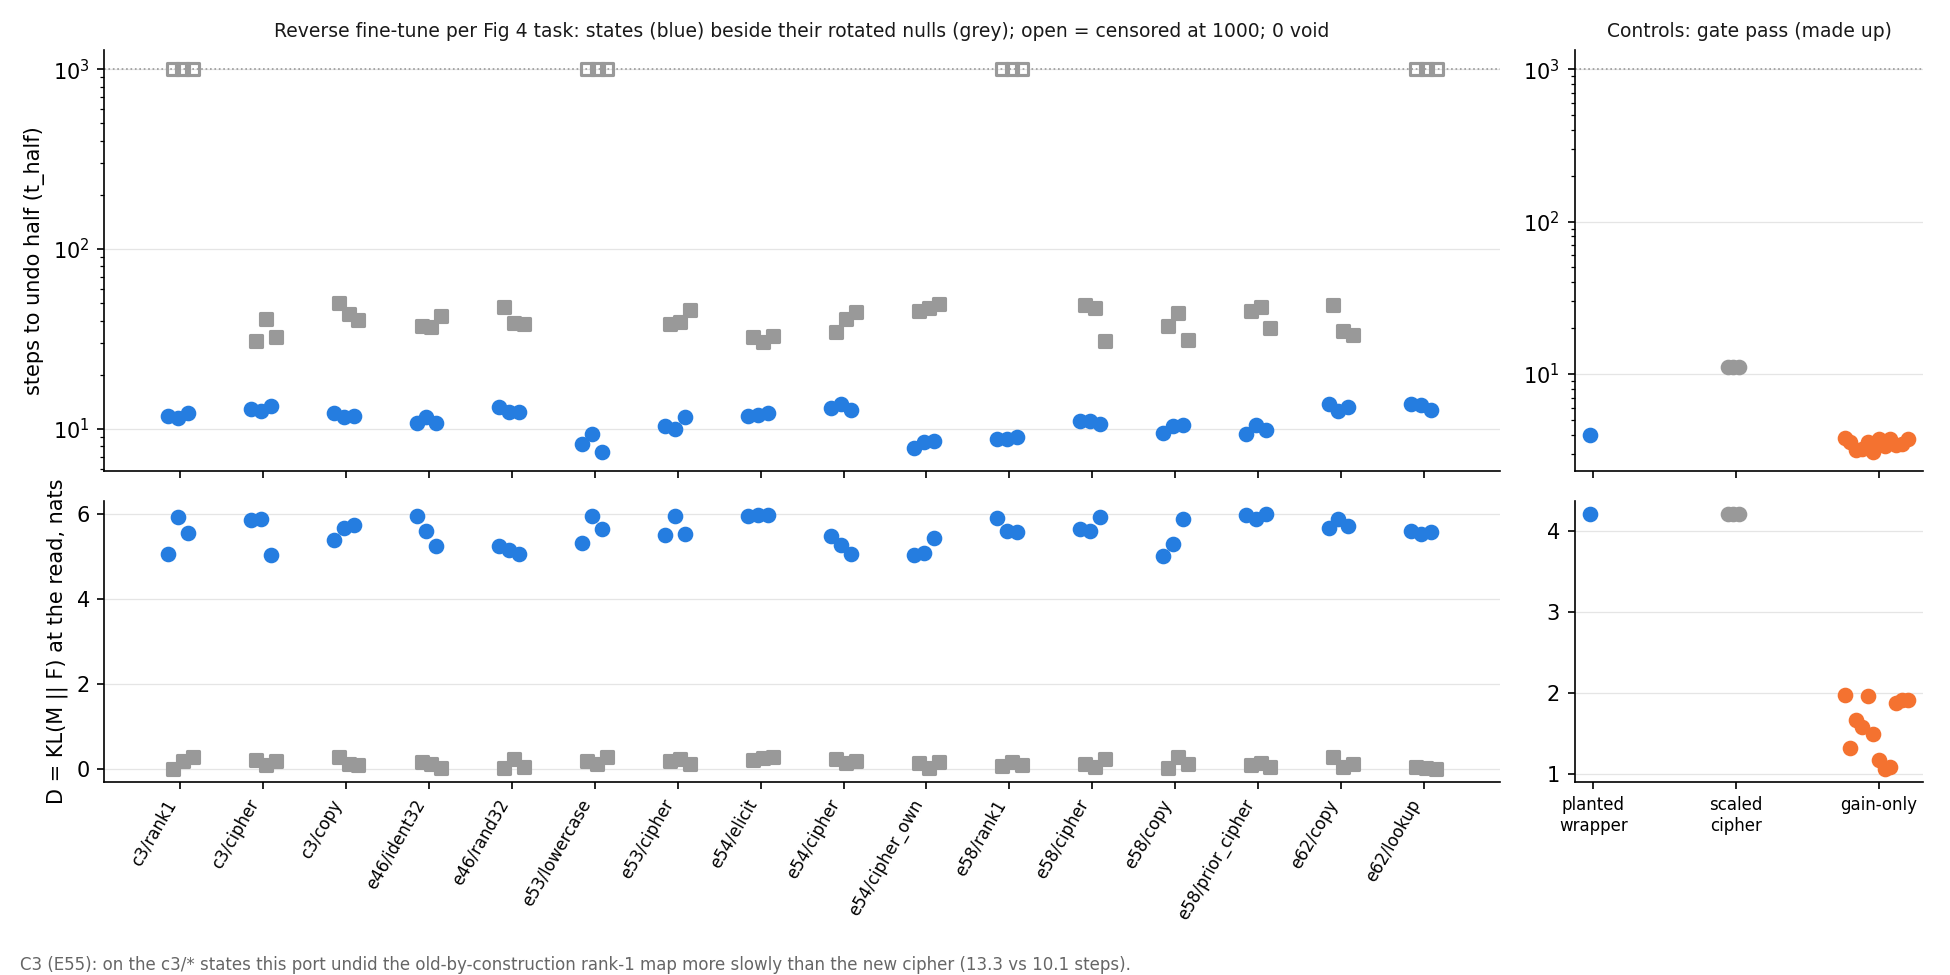
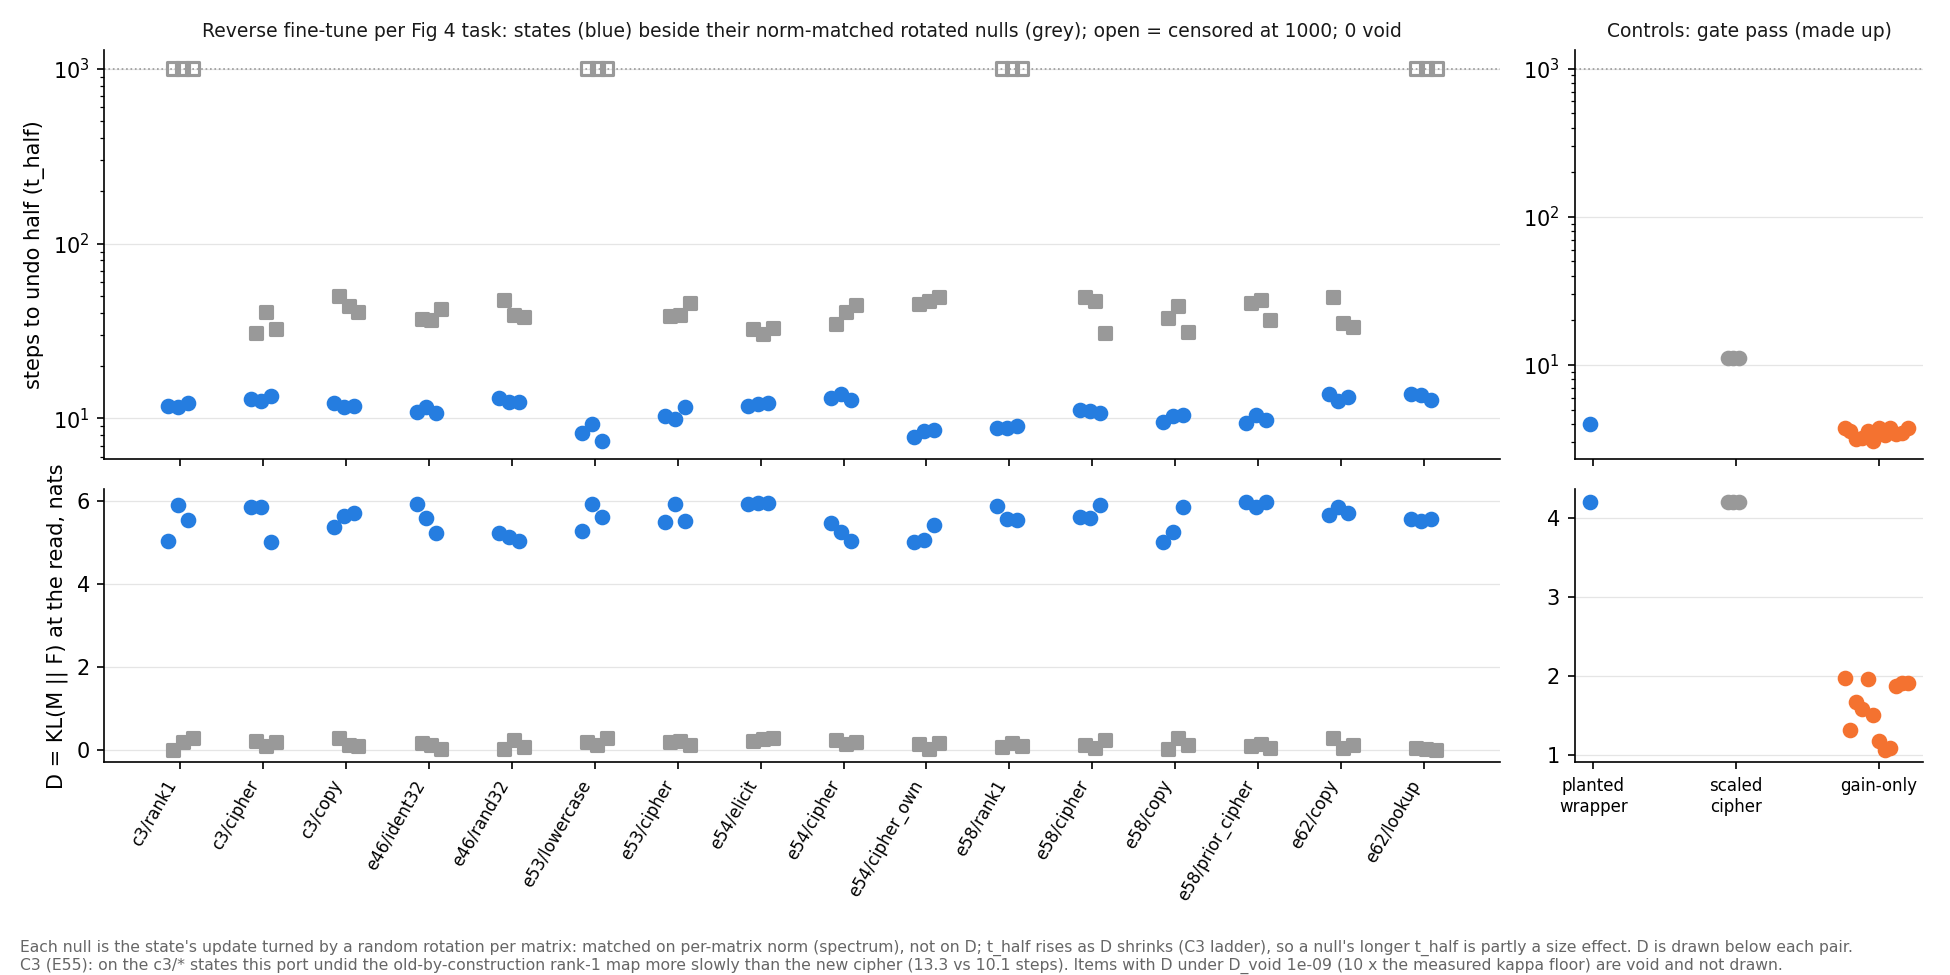
E312: D_void on every item (dated note beside the filed predictions, read by --stage summary), norm-matched null caption, measured kappa floor in the summary (redteam predictions check SHOULD 1-3)

diff --git a/experiments/reverse_ft_fig4/run.py b/experiments/reverse_ft_fig4/run.py
@@ -351,26 +351,43 @@ def stage0(net: ST.Net, c: Config) -> None:
 # ---- summary (no GPU) -----------------------------------------------------------------------------------------------
 
 
+NOTE = RESULTS / "2026-11-25_note_dvoid.md"  # dated note beside the filed predictions (redteam SHOULD 1-3)
+
+
+def void_rule() -> str:
+    """The note's machine line: "every item" (D under D_void voids any item's reading, not only a null's)."""
+    lines = [ln.split(":", 1)[1].strip() for ln in NOTE.read_text().splitlines() if ln.startswith("void_rule:")]
+    if lines != ["every item"]:
+        raise SystemExit(f"STOP: {NOTE.name} has no 'void_rule: every item' line")
+    return lines[0]
+
+
 def stage_summary(c: Config) -> None:
     done = {n: json.loads(item_path(n).read_text()) for n in item_names(c) if item_path(n).is_file()}
-    drop = lambda r: {k: r[k] for k in ("D", "norm", "t_half", "t_tenth", "end", "steps")}
+    s0 = json.loads(STAGE0.read_text())
+    void, rule = s0["kappa_floor"]["D_void"], void_rule()
+
+    def drop(r: dict[str, Any]) -> dict[str, Any]:
+        v = r["D"] < void  # the note's rule, every item: a reading from noise is not drawn
+        return {k: r[k] for k in ("D", "norm", "end", "steps")} | {"void": v} | {k: None if v else r[k] for k in ("t_half", "t_tenth")}
+
     groups: dict[str, Any] = {}
     for s in sorted(c.fig4):
         g = groups.setdefault(s.rsplit("_s", 1)[0], {"task": c.fig4[s]["task"], "states": {}})
         g["states"][s] = {"state": drop(done[s]) if s in done else None, "null": drop(done[f"{s}~null"]) if f"{s}~null" in done else None}
     gains = {n: drop(r) for n, r in done.items() if n.startswith("gain/")}
     missing = [n for n in item_names(c) if n not in done]
-    s0 = json.loads(STAGE0.read_text())
-    void = s0["kappa_floor"]["D_void"]
-    nulls = [r for n, r in done.items() if n.endswith("~null")]
-    out = {"groups": groups, "gain": gains, "missing": missing, "D_void": void, "null_void": sum(r["D"] < void for r in nulls),
-           "censored": {k: sum(r["t_half"] == "censored" for n, r in done.items() if r["kind"] == k) for k in ("state", "null", "gain")},
+    kinds = ("state", "null", "gain")
+    out = {"groups": groups, "gain": gains, "missing": missing, "kappa_floor": s0["kappa_floor"]["batched_vs_single"], "D_void": void,
+           "void_rule": rule, "void": {k: sum(r["D"] < void for r in done.values() if r["kind"] == k) for k in kinds},
+           "censored": {k: sum(r["t_half"] == "censored" and r["D"] >= void for r in done.values() if r["kind"] == k) for k in kinds},
            "gate": s0["planted"]["gate"], "planted": {"wrapper": drop(s0["planted"]["wrapper"]), "partners": {k: drop(v) for k, v in s0["planted"]["partners"].items()}},
            "pile_ce": {k: drop(v) for k, v in s0.get("pile_ce", {}).items()}}  # fmt: skip
     write_stage(RESULTS / "summary.json", out)
     for name, g in groups.items():
         log(f"[{name}] " + " | ".join(f"{s}: t_half {v['state'] and v['state']['t_half']} D {v['state'] and v['state']['D']} null t_half {v['null'] and v['null']['t_half']} D {v['null'] and v['null']['D']}" for s, v in g["states"].items()))
-    log(f"[summary] {len(done)} of {len(item_names(c))} items; missing {missing}; censored {out['censored']}; nulls under D_void {out['null_void']}")
+    log(f"[summary] {len(done)} of {len(item_names(c))} items; missing {missing}; censored {out['censored']}; measured kappa floor "
+        f"{out['kappa_floor']:.3g} -> D_void {void:.3g}; void ({rule}) {out['void']}")  # fmt: skip
     log("STAGE summary DONE")
 
 

diff --git a/experiments/reverse_ft_fig4/plot.py b/experiments/reverse_ft_fig4/plot.py
@@ -82,13 +82,17 @@ def main() -> None:
     bot.set_ylabel("D = KL(M || F) at the read, nats")
     bot.set_xticks(range(len(names)), names, rotation=60, ha="right", fontsize=8)
     ctl_d.set_xticks(range(3), [c[0] for c in ctl_items], fontsize=8)
-    top.set_title(f"Reverse fine-tune per Fig 4 task: states (blue) beside their rotated nulls (grey); open = censored at {CAP}; {void} void", fontsize=9, color=INK)
+    top.set_title(f"Reverse fine-tune per Fig 4 task: states (blue) beside their norm-matched rotated nulls (grey); open = censored at {CAP}; {void} void", fontsize=9, color=INK)
     ctl.set_title(f"Controls: gate {S['gate']['reading']}", fontsize=9, color=INK)
     for ax in axes.flat:
         ax.grid(axis="y", color="#e5e5e5", lw=0.6)
         ax.spines[["top", "right"]].set_visible(False)
-    fig.text(0.01, 0.005, "C3 (E55): on the c3/* states this port undid the old-by-construction rank-1 map more slowly than the new cipher (13.3 vs 10.1 steps).", fontsize=8, color="#666666")
-    fig.tight_layout(rect=(0, 0.03, 1, 1))
+    note = ("Each null is the state's update turned by a random rotation per matrix: matched on per-matrix norm (spectrum), not on D; "
+            "t_half rises as D shrinks (C3 ladder), so a null's longer t_half is partly a size effect. D is drawn below each pair.\n"
+            "C3 (E55): on the c3/* states this port undid the old-by-construction rank-1 map more slowly than the new cipher (13.3 vs 10.1 steps). "
+            f"Items with D under D_void {S['D_void']:.2g} (10 x the measured kappa floor) are void and not drawn.")  # fmt: skip
+    fig.text(0.01, 0.005, note, fontsize=7.5, color="#666666")
+    fig.tight_layout(rect=(0, 0.05, 1, 1))
     out = HERE / "figures" / ("sketch_p2-84.png" if a.stub else "reverse_ft_fig4.png")
     out.parent.mkdir(exist_ok=True)
     fig.savefig(out, dpi=150)

diff --git a/experiments/reverse_ft_fig4/results/2026-11-25_note_dvoid.md b/experiments/reverse_ft_fig4/results/2026-11-25_note_dvoid.md
@@ -1,0 +1,16 @@
+# E312 note, 2026-11-25, before any run: D_void applies to every item
+
+Filed `predictions.json` (3d6ad306, sha256 a92b8a98...) left unedited. This note responds to redteam's predictions check
+(`reports/reviews/2026-11-25_review_p2-84-predictions.md`, SHOULD 1-3). It is a reporting rule only and changes no bar
+or stop.
+
+1. Every item with D under stage 0's D_void is reported as void, its t_half and t_tenth set to None. That covers
+   states, nulls and gain-only states alike, where the filed rule voided only the nulls. D_void is 10 × max(the
+   measured κ floor, 1e-12). A void item stays in the summary with its D, is counted, and is not drawn. `run.py
+   --stage summary` reads the machine line below and refuses without it.
+2. The caption and plot note say each null is matched to its state on per-matrix norm (spectrum), not on D. They also
+   say that t_half rises as D shrinks (C3 ladder, corr −0.90 with norm). A null's longer t_half beside its state is
+   therefore partly a size effect. D is drawn beside every pair.
+3. The summary reports the measured κ floor (stage 0's batched-against-single read) beside D_void.
+
+void_rule: every item
